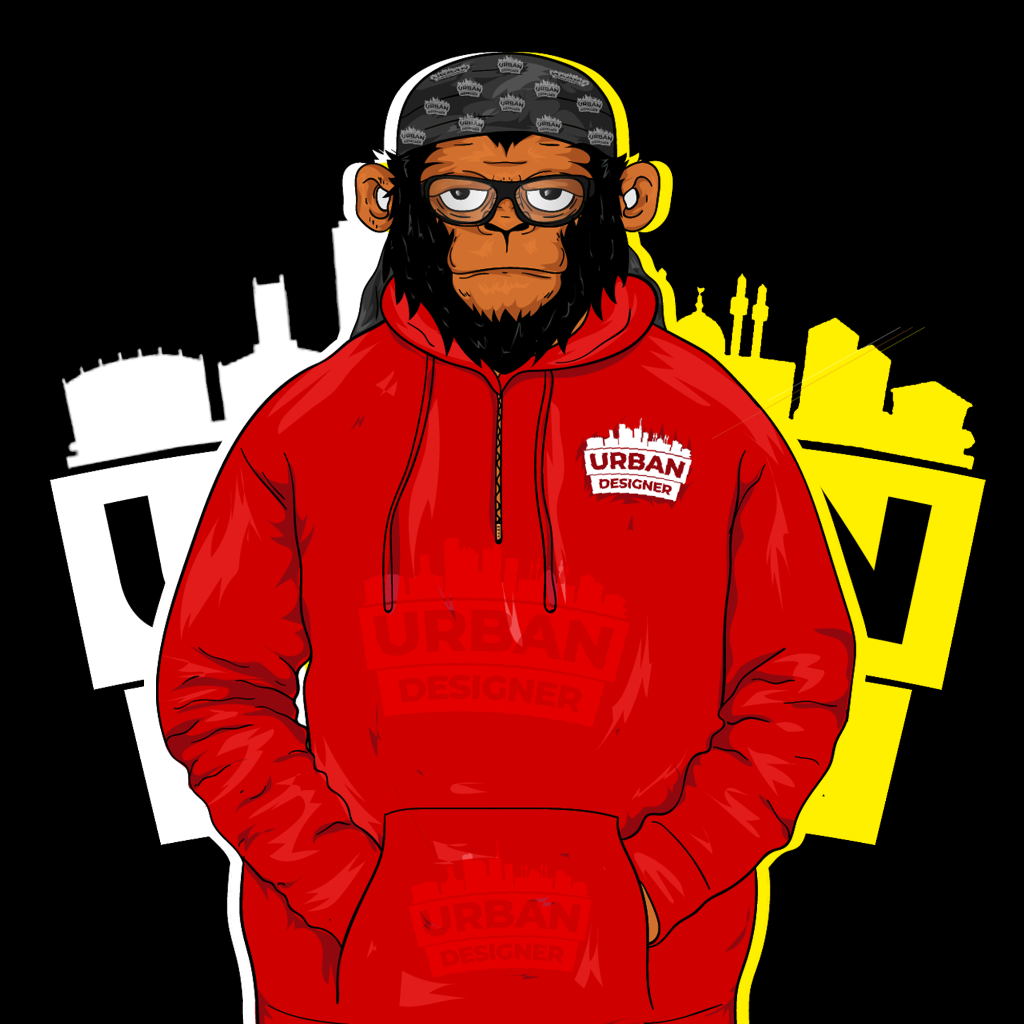
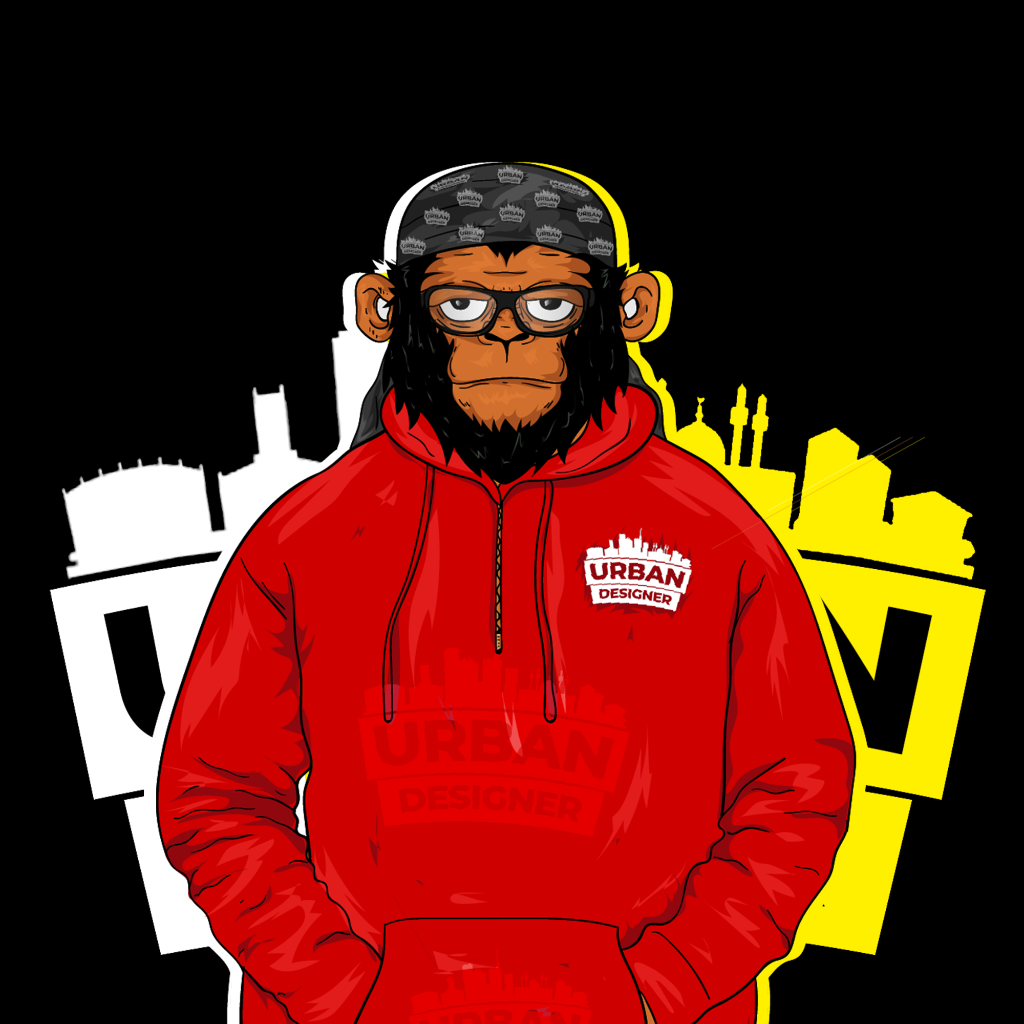
feat(illustration): fix face headroom framing, restore authentic colors, and add bandana portrait

diff --git a/scripts/nudge-illustrations.js b/scripts/nudge-illustrations.js
@@ -1,0 +1,86 @@
+const sharp = require('sharp');
+const path = require('path');
+const fs = require('fs');
+
+async function processAll() {
+  const userUploadsDir = 'C:/Users/ADMIN/.gemini/antigravity/brain/faf730ec-14b3-45e4-9625-dc1de57c1951/.user_uploaded/';
+  const outDir = 'C:/Users/ADMIN/.gemini/antigravity/scratch/osati-portfolio/public/works/illustrations/';
+
+  // 1. Process Ape: Nudge downwards so face is fully displayed
+  console.log('Processing Urban Designer Ape...');
+  const apeSrc = path.join(userUploadsDir, 'media_1792014511838.png');
+  // Shift ape down by 110px on a 1024x1024 black canvas
+  await sharp({
+    create: {
+      width: 1024,
+      height: 1024,
+      channels: 4,
+      background: { r: 0, g: 0, b: 0, alpha: 1 }
+    }
+  })
+  .composite([
+    {
+      input: apeSrc,
+      top: 110,
+      left: 0
+    }
+  ])
+  .png()
+  .toFile(path.join(outDir, 'urban-designer.png'));
+  console.log('Urban Designer Ape saved.');
+
+  // 2. Process Goku (Saiyan Surge): Nudge downwards so face is fully displayed
+  console.log('Processing Saiyan Surge...');
+  const gokuSrc = path.join(userUploadsDir, 'media_1792014511833.png');
+  const svgGrad = Buffer.from(
+    '<svg width="1024" height="1024" xmlns="http://www.w3.org/2000/svg">' +
+    '  <defs>' +
+    '    <linearGradient id="bg" x1="0" y1="0" x2="0" y2="1">' +
+    '      <stop offset="0%" stop-color="rgb(0,0,109)"/>' +
+    '      <stop offset="100%" stop-color="rgb(0,0,20)"/>' +
+    '    </linearGradient>' +
+    '  </defs>' +
+    '  <rect width="1024" height="1024" fill="url(#bg)"/>' +
+    '</svg>'
+  );
+  const bg = await sharp(svgGrad).png().toBuffer();
+  const gokuResized = await sharp(gokuSrc)
+    .resize(645, 910)
+    .toBuffer();
+    
+  await sharp(bg)
+    .composite([
+      {
+        input: gokuResized,
+        left: Math.round((1024 - 645) / 2),
+        top: 90
+      }
+    ])
+    .png()
+    .toFile(path.join(outDir, 'saiyan-awakening.png'));
+  console.log('Saiyan Surge saved.');
+
+  // 3. Exact user uploads for white background works:
+  // "also the atrworks that have a white background are not appearing correctly, it looks excessively brownish-filtered. render exactly what i posted to you."
+  // Copy the EXACT files byte-for-byte!
+  console.log('Copying exact uploaded artworks...');
+  fs.copyFileSync(
+    path.join(userUploadsDir, 'media_1792014511837.jpg'),
+    path.join(outDir, 'drip-portrait-female.jpg')
+  );
+  fs.copyFileSync(
+    path.join(userUploadsDir, 'media_1792014511839.jpg'),
+    path.join(outDir, 'drip-portrait-male.jpg')
+  );
+  fs.copyFileSync(
+    path.join(userUploadsDir, 'media_1792014511872.png'),
+    path.join(outDir, 'expressive-portrait.png')
+  );
+  fs.copyFileSync(
+    path.join(userUploadsDir, 'media_1792054296774.jpg'),
+    path.join(outDir, 'bandana-portrait.jpg')
+  );
+  console.log('All files saved successfully!');
+}
+
+processAll().catch(console.error);

diff --git a/scripts/create-seamless-goku.js b/scripts/create-seamless-goku.js
@@ -1,0 +1,67 @@
+const sharp = require('sharp');
+const path = require('path');
+
+async function createSeamlessGoku() {
+  const gokuSrc = 'C:/Users/ADMIN/.gemini/antigravity/brain/faf730ec-14b3-45e4-9625-dc1de57c1951/.user_uploaded/media_1792014511833.png';
+  const outPath = 'C:/Users/ADMIN/.gemini/antigravity/scratch/osati-portfolio/public/works/illustrations/saiyan-awakening.png';
+
+  // 1. Get raw pixel buffer of Goku (726 x 1024, RGBA)
+  const { data, info } = await sharp(gokuSrc)
+    .ensureAlpha()
+    .raw()
+    .toBuffer({ resolveWithObject: true });
+
+  const srcW = info.width; // 726
+  const srcH = info.height; // 1024
+  const channels = info.channels; // 4
+
+  // Target canvas: 1024 x 1024
+  const targetW = 1024;
+  const targetH = 1024;
+  const outBuffer = Buffer.alloc(targetW * targetH * channels);
+
+  // We want to nudge Goku downwards by shiftY = 90
+  const shiftY = 90;
+  // Center horizontally: shiftX = (1024 - 726) / 2 = 149
+  const shiftX = Math.round((targetW - srcW) / 2);
+
+  // Fill canvas
+  for (let y = 0; y < targetH; y++) {
+    // Determine which source row to sample
+    // If y < shiftY, clamp to row 0
+    // If y >= shiftY + srcH, clamp to row srcH - 1
+    // Otherwise, sample y - shiftY
+    let srcY = y - shiftY;
+    if (srcY < 0) srcY = 0;
+    if (srcY >= srcH) srcY = srcH - 1;
+
+    for (let x = 0; x < targetW; x++) {
+      // Determine which source col to sample
+      let srcX = x - shiftX;
+      if (srcX < 0) srcX = 0;
+      if (srcX >= srcW) srcX = srcW - 1;
+
+      const srcIdx = (srcY * srcW + srcX) * channels;
+      const destIdx = (y * targetW + x) * channels;
+
+      outBuffer[destIdx] = data[srcIdx];         // R
+      outBuffer[destIdx + 1] = data[srcIdx + 1]; // G
+      outBuffer[destIdx + 2] = data[srcIdx + 2]; // B
+      outBuffer[destIdx + 3] = 255;              // A
+    }
+  }
+
+  await sharp(outBuffer, {
+    raw: {
+      width: targetW,
+      height: targetH,
+      channels: 4
+    }
+  })
+  .png()
+  .toFile(outPath);
+
+  console.log('Seamless nudged Goku generated successfully!');
+}
+
+createSeamlessGoku().catch(console.error);

diff --git a/lib/portfolio-data.ts b/lib/portfolio-data.ts
@@ -81,14 +81,14 @@ export const PORTFOLIO_CATEGORIES: PortfolioCategory[] = [
         id: "il-drip-portrait-female",
         title: "Joyful Drip Portrait",
         year: "2025",
-        imageUrl: "/works/illustrations/drip-portrait-female.png",
+        imageUrl: "/works/illustrations/drip-portrait-female.jpg",
         description: "Expressive minimalist vector portrait featuring warm skin tones, chic eyewear, and signature melting neck contour.",
       },
       {
         id: "il-drip-portrait-male",
         title: "Shaded Drip Portrait",
         year: "2025",
-        imageUrl: "/works/illustrations/drip-portrait-male.png",
+        imageUrl: "/works/illustrations/drip-portrait-male.jpg",
         description: "Cool contemporary character illustration pairing metallic sunglasses and earbud with fluid dripping neckline geometry.",
       },
       {
@@ -97,6 +97,13 @@ export const PORTFOLIO_CATEGORIES: PortfolioCategory[] = [
         year: "2025",
         imageUrl: "/works/illustrations/expressive-portrait.png",
         description: "High-energy vector caricature exploring exaggerated facial anatomy, ecstatic laughter, and rich chromatic teal contrast.",
+      },
+      {
+        id: "il-bandana-portrait",
+        title: "Paisley Masked Portrait",
+        year: "2026",
+        imageUrl: "/works/illustrations/bandana-portrait.jpg",
+        description: "Striking vector character portrait featuring an intense gaze and ornate black paisley bandana over royal cobalt blue canvas.",
       },
     ],
   },

diff --git a/components/sections/works-section.tsx b/components/sections/works-section.tsx
@@ -17,9 +17,10 @@ const BRAND_IDENTITY_IMAGES = [
 const ILLUSTRATION_IMAGES = [
   { src: "/works/illustrations/urban-designer.png", title: "Urban Designer Ape" },
   { src: "/works/illustrations/saiyan-awakening.png", title: "Saiyan Surge" },
-  { src: "/works/illustrations/drip-portrait-female.png", title: "Joyful Drip Portrait" },
-  { src: "/works/illustrations/drip-portrait-male.png", title: "Shaded Drip Portrait" },
+  { src: "/works/illustrations/drip-portrait-female.jpg", title: "Joyful Drip Portrait" },
+  { src: "/works/illustrations/drip-portrait-male.jpg", title: "Shaded Drip Portrait" },
   { src: "/works/illustrations/expressive-portrait.png", title: "Ecstatic Expression" },
+  { src: "/works/illustrations/bandana-portrait.jpg", title: "Paisley Masked Portrait" },
 ];
 
 function BrandIdentityAnimatedCard() {
@@ -97,7 +98,7 @@ function IllustrationAnimatedCard() {
             alt={item.title}
             fill
             sizes="(max-width: 640px) 100vw, (max-width: 1024px) 33vw, 20vw"
-            className="object-cover transition-transform duration-700 group-hover:scale-105"
+            className="object-cover object-top transition-transform duration-700 group-hover:scale-105"
             priority={idx === 0}
           />
         </motion.div>

diff --git a/components/works/category-view.tsx b/components/works/category-view.tsx
@@ -39,8 +39,8 @@ function ProjectCard({ project, isSquare = false }: { project: ProjectItem; isSq
           src={project.imageUrl}
           alt={project.title}
           fill
-          sizes="(max-width: 640px) 100vw, (max-width: 1024px) 50vw, 20vw"
-          className="object-cover transition-transform duration-700 group-hover:scale-105"
+          sizes="(max-width: 640px) 100vw, (max-width: 1024px) 50vw, 25vw"
+          className="object-cover object-top transition-transform duration-700 group-hover:scale-105"
         />
         <div className="absolute top-2.5 right-2.5 px-2.5 py-0.5 rounded-full bg-black/75 backdrop-blur-md text-white text-[10px] font-mono tracking-wider">
           {project.year}
@@ -128,7 +128,7 @@ export function CategoryView({ category, allCategories }: CategoryViewProps) {
       <div className={cn(
         "grid gap-5 sm:gap-6",
         category.slug === "illustration"
-          ? "grid-cols-1 sm:grid-cols-2 lg:grid-cols-3 xl:grid-cols-5"
+          ? "grid-cols-1 sm:grid-cols-2 lg:grid-cols-3"
           : "grid-cols-1 sm:grid-cols-2 md:grid-cols-3 lg:grid-cols-4"
       )}>
         {category.projects.map((project) => (
